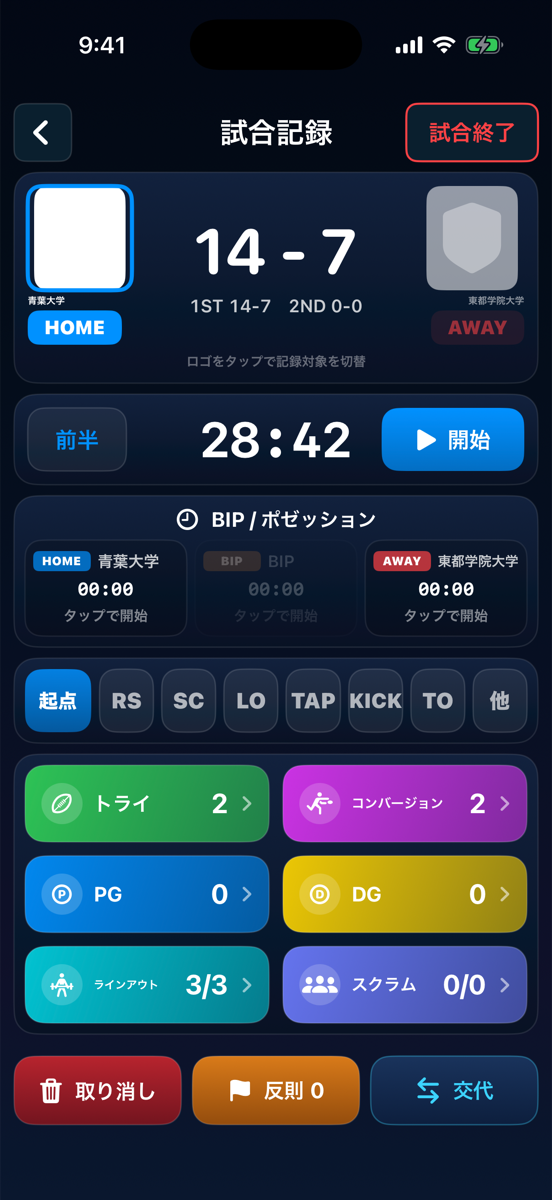
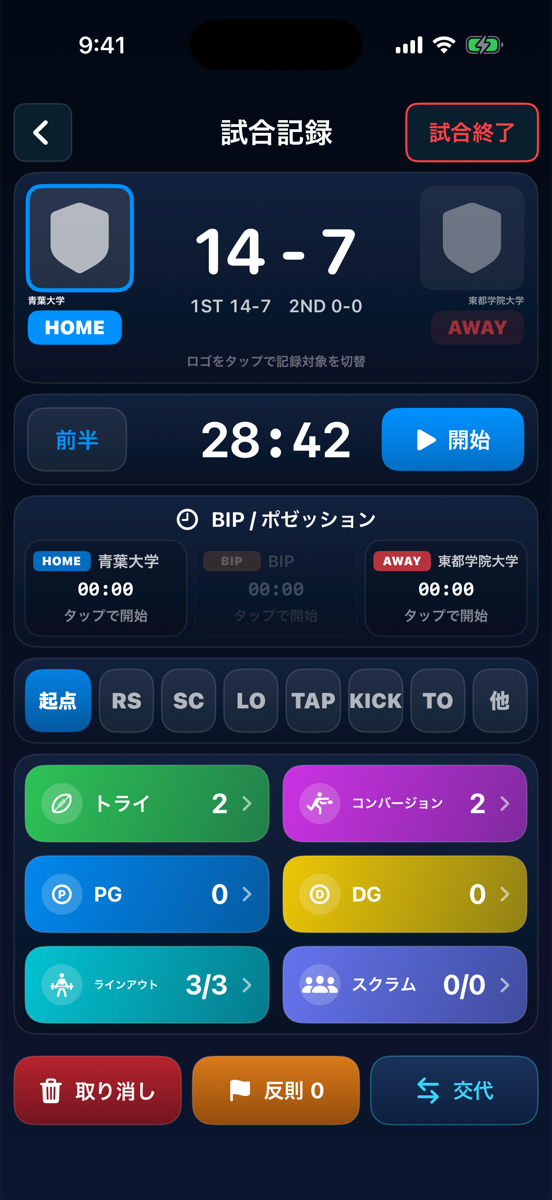
記録画面: ロゴ未設定のチームが白い四角に見える問題を直し、スクリーンショットを差し替え

Changed region(s): [[0.7699, 0.1542, 0.9547, 0.2467], [0.0616, 0.1542, 0.2464, 0.2467]]

diff --git a/V3RecordingView.swift b/V3RecordingView.swift
@@ -1614,15 +1614,18 @@ return ScoringRules.points(category: event.category, widgetData: event.widgetDat
                 image
                     .resizable()
                     .scaledToFill()
+                    .background(Color.white)
             } placeholder: {
+                // ロゴ未設定: 白地に白い盾だと真っ白な四角に見えるため、地を暗い画面になじむ色にする
                 Image(systemName: "shield.fill")
                     .resizable()
                     .scaledToFit()
                     .foregroundStyle(.white.opacity(0.65))
                     .padding(12)
+                    .frame(maxWidth: .infinity, maxHeight: .infinity)
+                    .background(Color.white.opacity(0.10))
             }
         }
-        .background(Color.white)
         .clipShape(RoundedRectangle(cornerRadius: 10))
     }
 }
